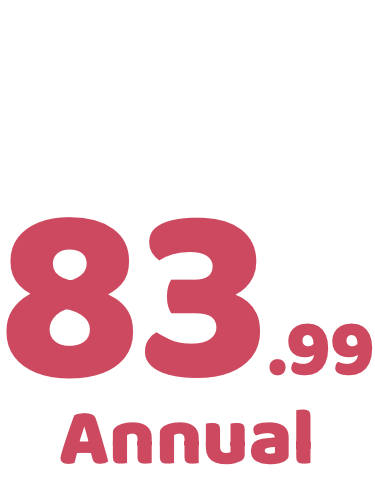
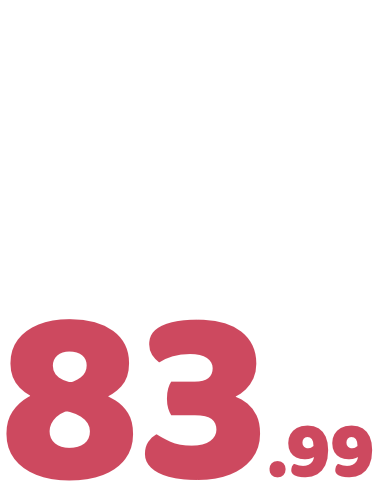
1

Changed region(s): [[0.0, 0.42, 0.9973, 0.96]]

diff --git a/term.html b/term.html
@@ -47,59 +47,59 @@
         <main class="main"><html>
 
   
-     <section class="specs section grid" id="Terms">
+     <section class="terms section grid" id="Terms">
                 <h2 class="section__title section__title-gradient">Terms of Use</h2>
 
-                <div class="specs__container container grid">
-                    <div class="specs__content grid">
+                <div class="terms__container container grid">
+                    <div class="terms__content grid">
                     
                     
                     
-                        <div class="specs__data">
-                            <h3 class="specs__title">Welcome</h3>
-                            <span class="specs__subtitle">Welcome to Know All, a mobile application designed to help parents answer their children&apos;s questions using artificial intelligence technology. By using this app, you agree to the following Terms of Use:</span>
+                        <div class="terms__data">
+                            <h3 class="terms__title">Welcome</h3>
+                            <span class="terms__subtitle">Welcome to Know All, a mobile application designed to help parents answer their children&apos;s questions using artificial intelligence technology. By using this app, you agree to the following Terms of Use:</span>
                         </div>
                         
-                             <div class="specs__data">
-                            <h3 class="specs__title">User Content</h3>
-                            <span class="specs__subtitle">Know All relies on user-generated questions and answers to provide its service. By using Know All, you agree that any content you submit, including questions and answers, is accurate and appropriate for all ages. You also agree that you are the owner of the content you submit or have the necessary permissions to use it. You grant Know All a non-exclusive, worldwide, perpetual, irrevocable, royalty-free license to use, copy, modify, adapt, distribute, and display the content you submit</span>
+                             <div class="terms__data">
+                            <h3 class="terms__title">User Content</h3>
+                            <span class="terms__subtitle">Know All relies on user-generated questions and answers to provide its service. By using Know All, you agree that any content you submit, including questions and answers, is accurate and appropriate for all ages. You also agree that you are the owner of the content you submit or have the necessary permissions to use it. You grant Know All a non-exclusive, worldwide, perpetual, irrevocable, royalty-free license to use, copy, modify, adapt, distribute, and display the content you submit</span>
                         </div>
-                             <div class="specs__data">
-                            <h3 class="specs__title">Privacy</h3>
-                            <span class="specs__subtitle">Know All values your privacy and will only collect and use your personal information to provide and improve the service. We may collect information about your questions and answers. By using Know All, you agree to our Privacy Policy, which can be found on the app.</span>
-                        </div>
-                        
-                             <div class="specs__data">
-                            <h3 class="specs__title">Intellectual Property</h3>
-                            <span class="specs__subtitle">The Know All app and its content, including but not limited to text, graphics, logos, images, and software, are the property of Know All and are protected by copyright and other intellectual property laws. You may not copy, modify, distribute, or use any content from Know All without our permission.</span>
+                             <div class="terms__data">
+                            <h3 class="terms__title">Privacy</h3>
+                            <span class="terms__subtitle">Know All values your privacy and will only collect and use your personal information to provide and improve the service. We may collect information about your questions and answers. By using Know All, you agree to our Privacy Policy, which can be found on the app.</span>
                         </div>
                         
-                             <div class="specs__data">
-                            <h3 class="specs__title">Prohibited Conduct</h3>
-                            <span class="specs__subtitle">You agree not to use Know All for any illegal or harmful purposes, including but not limited to spamming, harassing, or infringing on other users&apos; rights. You also agree not to reverse engineer, decompile, or disassemble the app or attempt to access its source code.</span>
+                             <div class="terms__data">
+                            <h3 class="terms__title">Intellectual Property</h3>
+                            <span class="terms__subtitle">The Know All app and its content, including but not limited to text, graphics, logos, images, and software, are the property of Know All and are protected by copyright and other intellectual property laws. You may not copy, modify, distribute, or use any content from Know All without our permission.</span>
                         </div>
                         
-                             <div class="specs__data">
-                            <h3 class="specs__title">Disclaimer of Warranties</h3>
-                            <span class="specs__subtitle">Know All is provided on an &quot;as is&quot; and &quot;as available&quot; basis. We make no warranties, express or implied, about the accuracy, reliability, or availability of the app or its content. We also disclaim any warranties of merchantability, fitness for a particular purpose, or non-infringement.</span>
+                             <div class="terms__data">
+                            <h3 class="terms__title">Prohibited Conduct</h3>
+                            <span class="terms__subtitle">You agree not to use Know All for any illegal or harmful purposes, including but not limited to spamming, harassing, or infringing on other users&apos; rights. You also agree not to reverse engineer, decompile, or disassemble the app or attempt to access its source code.</span>
                         </div>
                         
-                             <div class="specs__data">
-                            <h3 class="specs__title">Limitation of Liability</h3>
-                            <span class="specs__subtitle">Know All shall not be liable for any damages, including but not limited to direct, indirect, incidental, consequential, or punitive damages arising from the use or inability to use the app or its content.</span>
-                        </div>
-                              <div class="specs__data">
-                            <h3 class="specs__title">Indemnification</h3>
-                            <span class="specs__subtitle">ou agree to indemnify and hold harmless Know All, its affiliates, and their respective officers, directors, employees, and agents from any claims, damages, or expenses arising from your use of the app or your violation of these Terms of Use.</span>
-                        </div>
-                              <div class="specs__data">
-                            <h3 class="specs__title">Governing Law</h3>
-                            <span class="specs__subtitle">These Terms of Use shall be governed by and construed in accordance with the laws of the jurisdiction in which Know All is registered.</span>
+                             <div class="terms__data">
+                            <h3 class="terms__title">Disclaimer of Warranties</h3>
+                            <span class="terms__subtitle">Know All is provided on an &quot;as is&quot; and &quot;as available&quot; basis. We make no warranties, express or implied, about the accuracy, reliability, or availability of the app or its content. We also disclaim any warranties of merchantability, fitness for a particular purpose, or non-infringement.</span>
                         </div>
                         
-                              <div class="specs__data">
-                            <h3 class="specs__title">Changes to Terms of Use</h3>
-                            <span class="specs__subtitle">Know All reserves the right to modify or update these Terms of Use at any time without prior notice. Your continued use of the app after the changes will constitute your acceptance of the updated Terms of Use.
+                             <div class="terms__data">
+                            <h3 class="terms__title">Limitation of Liability</h3>
+                            <span class="terms__subtitle">Know All shall not be liable for any damages, including but not limited to direct, indirect, incidental, consequential, or punitive damages arising from the use or inability to use the app or its content.</span>
+                        </div>
+                              <div class="terms__data">
+                            <h3 class="terms__title">Indemnification</h3>
+                            <span class="terms__subtitle">ou agree to indemnify and hold harmless Know All, its affiliates, and their respective officers, directors, employees, and agents from any claims, damages, or expenses arising from your use of the app or your violation of these Terms of Use.</span>
+                        </div>
+                              <div class="terms__data">
+                            <h3 class="terms__title">Governing Law</h3>
+                            <span class="terms__subtitle">These Terms of Use shall be governed by and construed in accordance with the laws of the jurisdiction in which Know All is registered.</span>
+                        </div>
+                        
+                              <div class="terms__data">
+                            <h3 class="terms__title">Changes to Terms of Use</h3>
+                            <span class="terms__subtitle">Know All reserves the right to modify or update these Terms of Use at any time without prior notice. Your continued use of the app after the changes will constitute your acceptance of the updated Terms of Use.
                             <p><br></p>
 
                             If you have any questions or concerns about these Terms of Use, please contact us at <a href="mailto:knowall-app@hotmail.com">knowall-app@hotmail.com</a> .</span>
@@ -107,9 +107,7 @@
                                               </div>
 
                     
-                    <div>
-                        <img src="assets/img/terms.png" alt="" class="specs__img">
-                    </div>
+                   
                     
                     
 

diff --git a/index.html b/index.html
@@ -159,7 +159,7 @@
                         <div class="products__content">
                             <img src="assets/img/product1.png" alt="" class="products__img">
     
-                            <h3 class="products__title"></h3>
+                            <h3 class="products__title">per month</h3>
                             <span class="products__price">No free trial</span>
     
                             <button class="button button--flex products__button">
@@ -172,8 +172,8 @@
                         <div class="products__content">
                             <img src="assets/img/product2.png" alt="" class="products__img">
     
-                            <h3 class="products__title"></h3>
-                            <span class="products__price">3-day FREE trial</span>
+                            <h3 class="products__title">per year</h3>
+                            <span class="products__price">3-day FREE</span>
     
                             <button class="button button--flex products__button">
                                 <i class="ri-app-store-line button__icon"></i>

diff --git a/assets/css/styles.css b/assets/css/styles.css
@@ -340,6 +340,32 @@ img {
 
 .specs__subtitle {
   font-size: var(--smaller-font-size);
+}/*=============== TERMS ===============*/
+.terms__container {
+  position: relative;
+}
+
+.terms__content {
+  display: grid;
+  grid-template-columns: 1fr;}
+
+.terms__data {
+  grid-column: 1 / span 2;
+
+}
+
+.terms__icon {
+  font-size: 1.2rem;
+  color: var(--white-color);
+}
+
+.terms__title {
+  font-size: var(--normal-font-size);
+  font-weight: var(--font-medium);
+}
+
+.terms__subtitle {
+  font-size: var(--smaller-font-size);
 }
 /*=============== BUTTONS ===============
 
